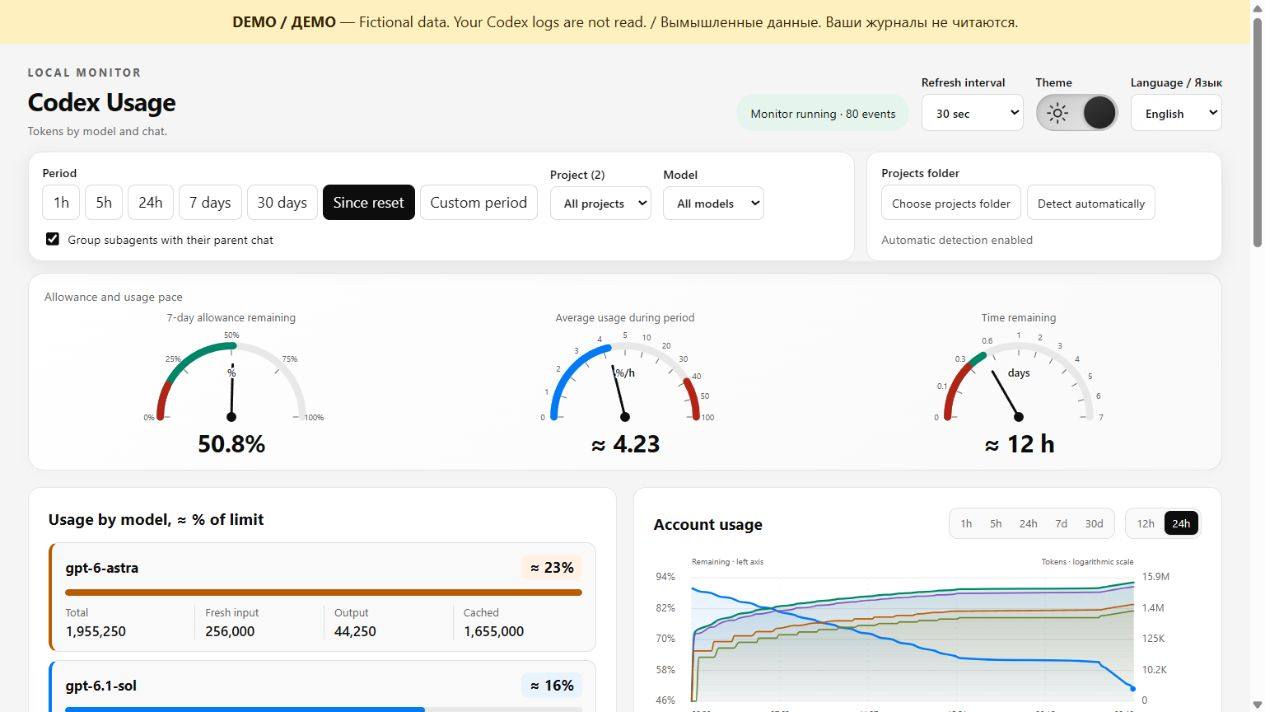
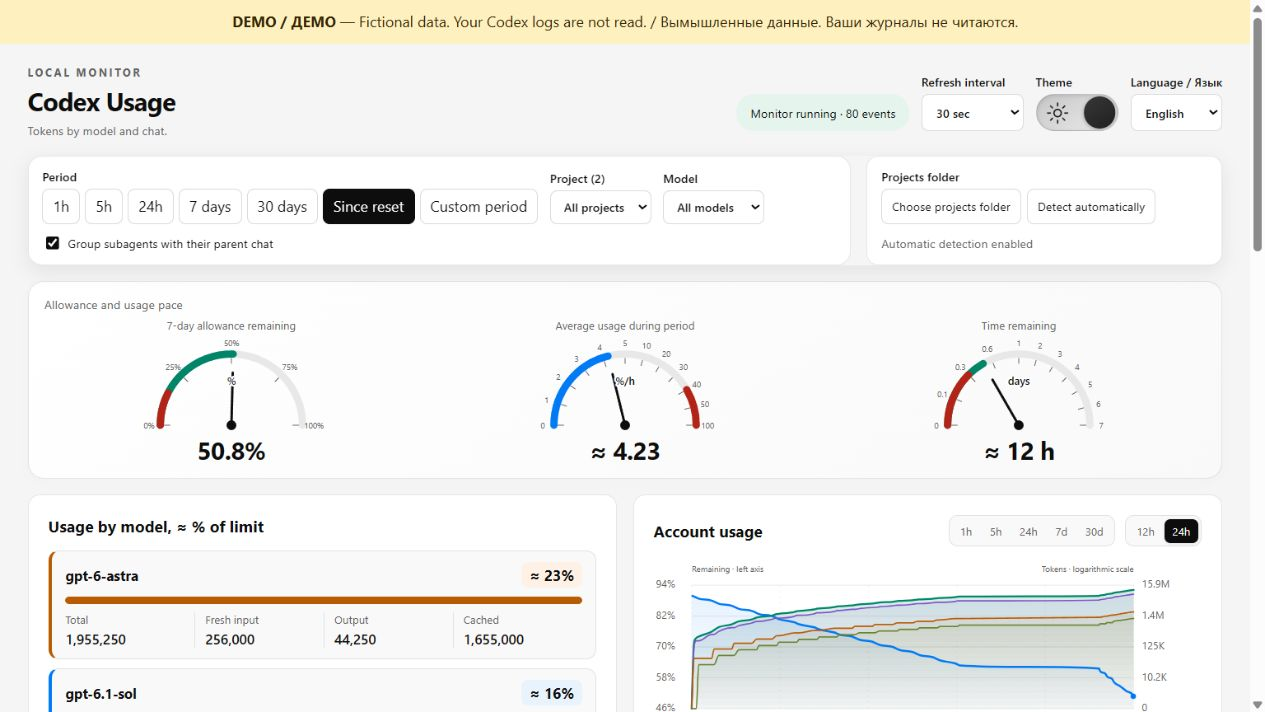
Unify dashboard panel spacing for v0.4.3

diff --git a/token_tracker/web/style.css b/token_tracker/web/style.css
@@ -145,3 +145,11 @@ input:focus-visible,select:focus-visible,button:focus-visible,a:focus-visible{ou
 @media(max-width:1100px){.usage-rankings{grid-template-columns:1fr}}@media(max-width:500px){.ranking-panel{padding:12px}.ranking-columns,.ranking-row{grid-template-columns:minmax(0,1fr) 95px 90px;gap:5px}.ranking-row{font-size:11px;padding:10px 8px}.ranking-position{width:12px}.ranking-name{gap:5px}}
 @media(prefers-reduced-motion:reduce){.ranking-item[open]>.ranking-report{animation:none}.ranking-row::after{transition:none}}
 .speed-dial-unit{fill:var(--text);font:600 13px system-ui;paint-order:stroke;stroke:var(--surface);stroke-width:4px;stroke-linejoin:round}
+
+/* Keep panel spacing consistent when explanatory paragraphs are hidden. */
+:root{--dashboard-gap:16px}
+:root main>.filter-toolbar{margin:var(--dashboard-gap) 0 0;gap:var(--dashboard-gap)}
+:root main>section,:root main>.quota-cards{margin:var(--dashboard-gap) 0 0}
+:root main>.cards,:root main>.charts,:root main>.usage-rankings{gap:var(--dashboard-gap)}
+main>section>.section-heading{margin:0 0 12px}
+main>footer{margin-top:var(--dashboard-gap)}

diff --git a/token_tracker/__init__.py b/token_tracker/__init__.py
@@ -1,3 +1,3 @@
 """Local Codex usage tracker using only the Python standard library."""
 
-__version__ = '0.4.2'
+__version__ = '0.4.3'

diff --git a/README.ru.md b/README.ru.md
@@ -24,7 +24,7 @@
 
 - Токены по чатам, проектам и моделям: новый вход, кеш и выход.
 - Снимки недельного лимита, графики и группировка подагентов.
-- Три стрелочных прибора в одной панели: остаток недельного лимита (0–100%), темп расхода (%/час) и запас времени (0–7 дней). Неравномерные шкалы темпа и времени помогают различать небольшие значения; единицы расположены внутри циферблатов, под приборами оставлены только числа, а подробности доступны при наведении.
+- Три стрелочных прибора в одной панели: остаток недельного лимита (0–100%), темп расхода (%/час) и запас времени (0–7 дней). Неравномерные шкалы темпа и времени помогают различать небольшие значения; единицы расположены внутри циферблатов, под приборами оставлены только числа, а подробности доступны при наведении. Между секциями и соседними карточками — единый отступ 16 пикселей.
 - Фильтры, поиск и CSV. Русский / английский, светлая / тёмная тема.
 
 ## Данные

diff --git a/README.md b/README.md
@@ -29,7 +29,7 @@ Upgrading from v0.2.0? Follow the [migration steps](docs/troubleshooting.md#upgr
 
 - Tokens by chat, project and model, with input, cache and output counts.
 - Weekly allowance snapshots, token charts and subagent grouping.
-- Three gauges in one panel: remaining weekly allowance (0–100%), usage pace (%/hour) and time remaining (0–7 days). The pace and time gauges use nonlinear scales to make small values easier to read; units sit inside the dials, with compact numeric readouts below and details available on hover.
+- Three gauges in one panel: remaining weekly allowance (0–100%), usage pace (%/hour) and time remaining (0–7 days). The pace and time gauges use nonlinear scales to make small values easier to read; units sit inside the dials, with compact numeric readouts below and details available on hover. Dashboard sections and adjacent cards use consistent 16 px spacing.
 - Filters, chat search and CSV export. English / Russian; light / dark theme.
 
 ## About the numbers
